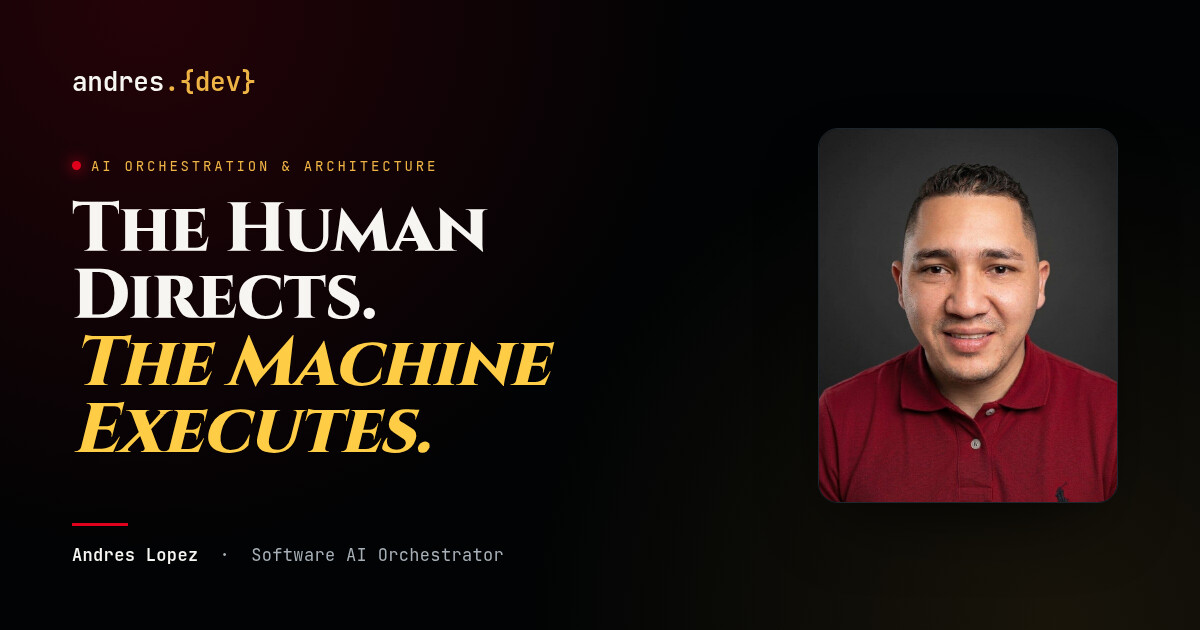
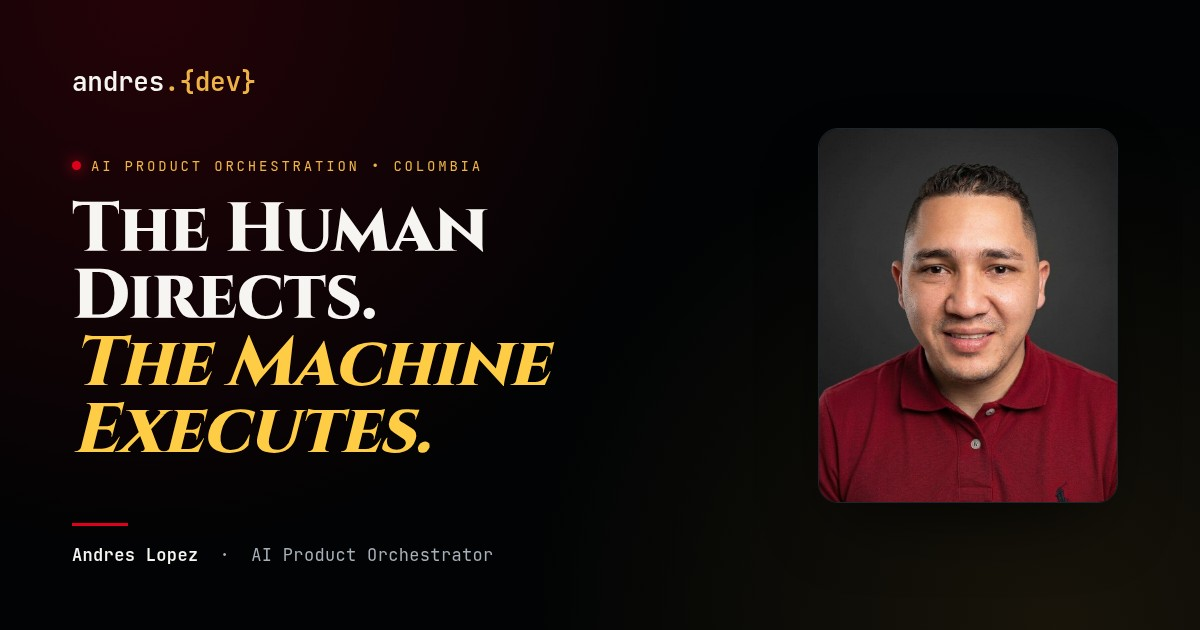
feat(assets): regenerate og-image with AI Product Orchestrator branding

diff --git a/script/og-image.html b/script/og-image.html
@@ -32,12 +32,12 @@
   <div class="left">
     <div class="brand">andres<i>.{dev}</i></div>
     <div>
-      <p class="eyebrow">AI Orchestration &amp; Architecture</p>
+      <p class="eyebrow">AI Product Orchestration &bull; Colombia</p>
       <h1>The Human Directs.<em>The Machine Executes.</em></h1>
     </div>
     <div>
       <div class="rule"></div>
-      <p class="name"><b>Andres Lopez</b> &nbsp;·&nbsp; Software AI Orchestrator</p>
+      <p class="name"><b>Andres Lopez</b> &nbsp;·&nbsp; AI Product Orchestrator</p>
     </div>
   </div>
   <div class="right"><div class="frame"><img src="../assets/images/andres-892.jpg" alt=""></div></div>
